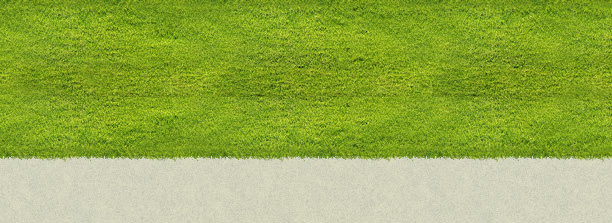
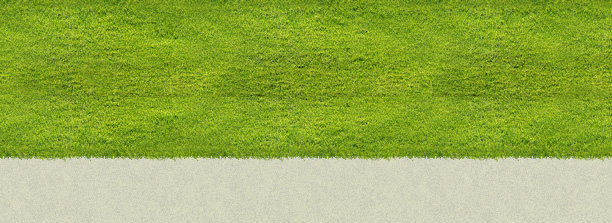
Switch to progressive jpg's

Changed region(s): [[0.9935, 0.2152, 1.0, 0.2422]]

diff --git a/Demo/MiLB.Web/Content/Images/MascotSmall/texas/Texas.png.css b/Demo/MiLB.Web/Content/Images/MascotSmall/texas/Texas.png.css
@@ -5,47 +5,47 @@ This is an example of how to use the image sprite in your own CSS files
 /* You may have to set 'display: block' */
 	width: 150px;
 	height: 190px;
-	background: url('/Content/Images/MascotSmall/texas/Texas.png') 0 0;
+	background: url('/Content/Images/MascotSmall/texas/Texas.jpg') 0 0;
 }
 .deuce {
 /* You may have to set 'display: block' */
 	width: 150px;
 	height: 190px;
-	background: url('/Content/Images/MascotSmall/texas/Texas.png') 0 -190px;
+	background: url('/Content/Images/MascotSmall/texas/Texas.jpg') 0 -190px;
 }
 .hornsby {
 /* You may have to set 'display: block' */
 	width: 150px;
 	height: 190px;
-	background: url('/Content/Images/MascotSmall/texas/Texas.png') 0 -380px;
+	background: url('/Content/Images/MascotSmall/texas/Texas.jpg') 0 -380px;
 }
 .louie-2 {
 /* You may have to set 'display: block' */
 	width: 150px;
 	height: 190px;
-	background: url('/Content/Images/MascotSmall/texas/Texas.png') 0 -570px;
+	background: url('/Content/Images/MascotSmall/texas/Texas.jpg') 0 -570px;
 }
 .rocky-rockhound {
 /* You may have to set 'display: block' */
 	width: 150px;
 	height: 190px;
-	background: url('/Content/Images/MascotSmall/texas/Texas.png') 0 -760px;
+	background: url('/Content/Images/MascotSmall/texas/Texas.jpg') 0 -760px;
 }
 .rusty-hook {
 /* You may have to set 'display: block' */
 	width: 150px;
 	height: 190px;
-	background: url('/Content/Images/MascotSmall/texas/Texas.png') 0 -950px;
+	background: url('/Content/Images/MascotSmall/texas/Texas.jpg') 0 -950px;
 }
 .shelly-the-horse {
 /* You may have to set 'display: block' */
 	width: 150px;
 	height: 190px;
-	background: url('/Content/Images/MascotSmall/texas/Texas.png') 0 -1140px;
+	background: url('/Content/Images/MascotSmall/texas/Texas.jpg') 0 -1140px;
 }
 .sinker-the-lake-creature {
 /* You may have to set 'display: block' */
 	width: 150px;
 	height: 190px;
-	background: url('/Content/Images/MascotSmall/texas/Texas.png') 0 -1330px;
+	background: url('/Content/Images/MascotSmall/texas/Texas.jpg') 0 -1330px;
 }
